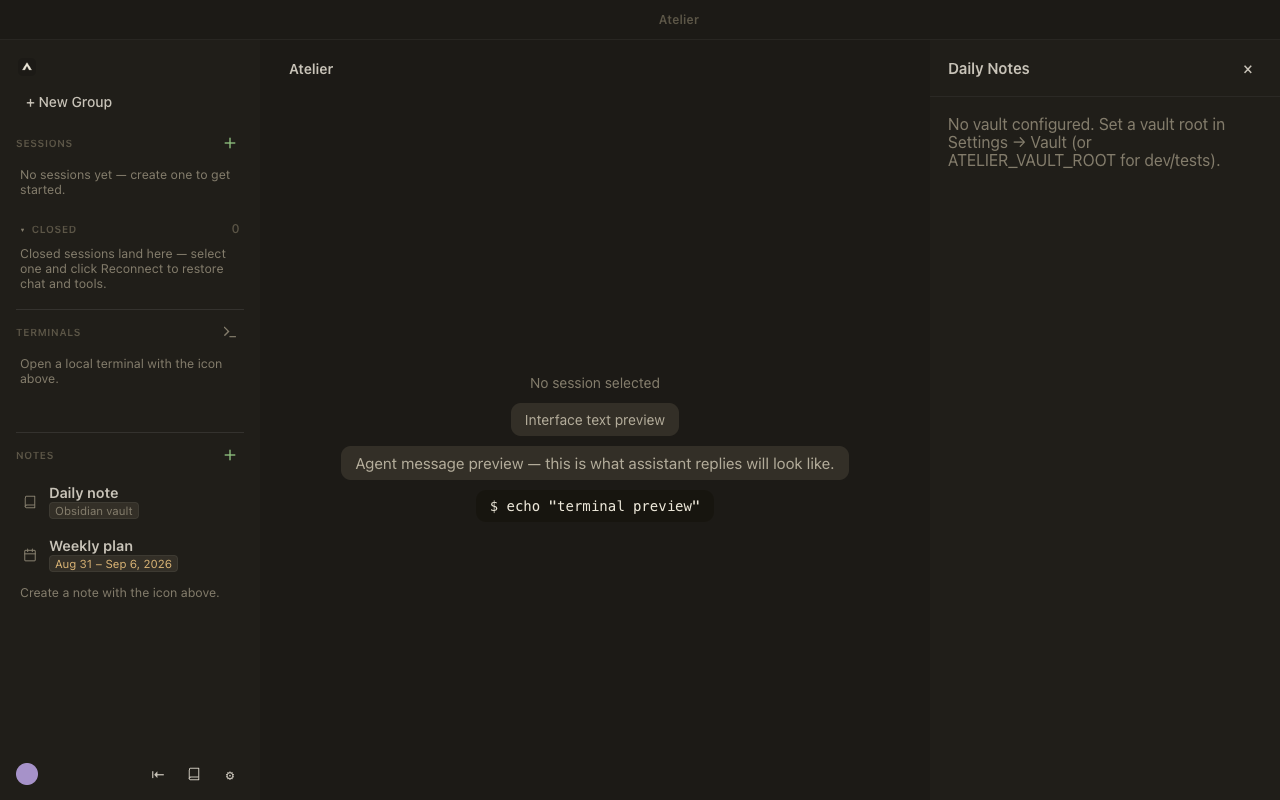
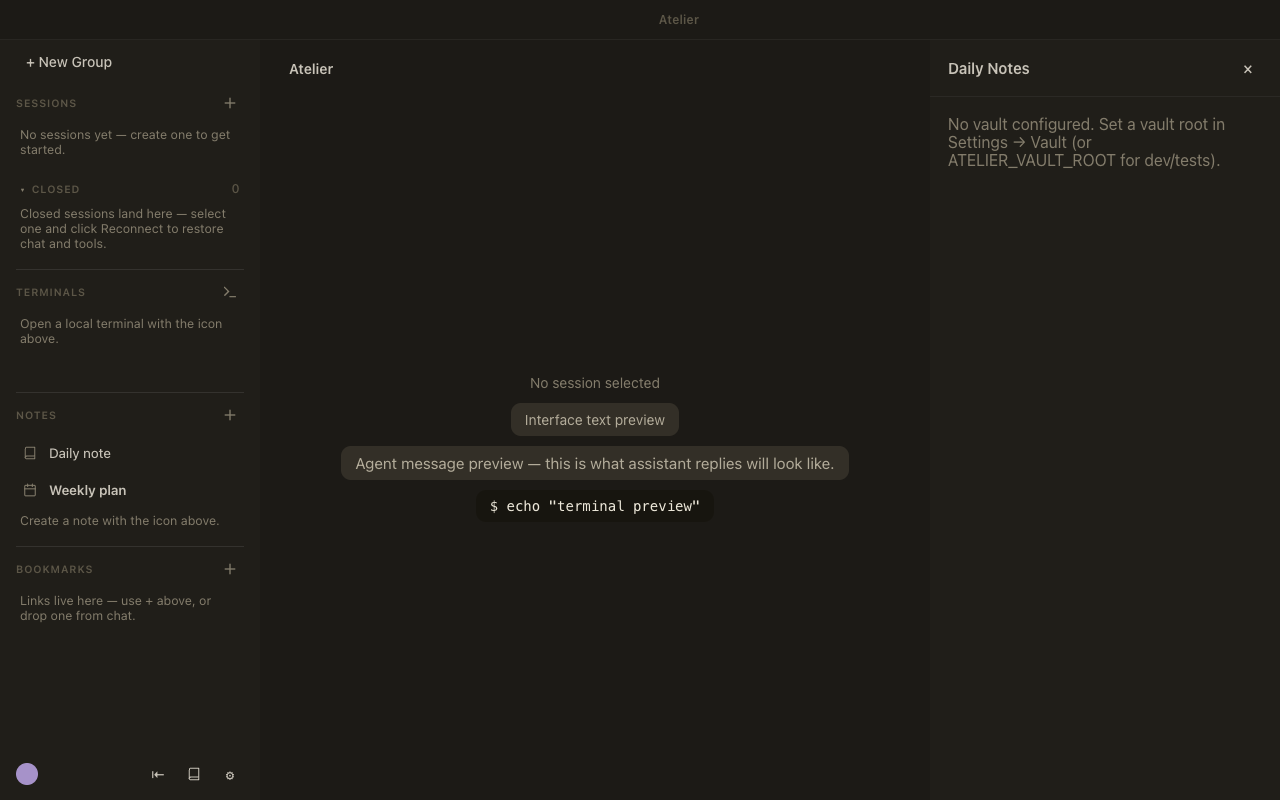
Remove the sidebar app mark and reclaim top space

diff --git a/Features/UI-Design/mocks/index.html b/Features/UI-Design/mocks/index.html
@@ -59,8 +59,7 @@
   .sidebar.collapsed { width: 56px; }
   .sidebar.collapsed .hide-on-collapse { display: none; }
   .sidebar.collapsed .session-row { justify-content: center; padding: 8px 0; }
-  .sidebar-top { padding: 16px 16px 10px; display: flex; align-items: center; gap: 8px; flex-shrink: 0; }
-  .app-mark { width: 22px; height: 22px; border-radius: 6px; background: linear-gradient(135deg, var(--accent), var(--sc-teal)); flex-shrink: 0; }
+  .new-group-row { margin: 8px 16px 10px; }
   .app-name { font-weight: 600; font-size: var(--text-base); flex: 1; }
   .sidebar-search-row { padding: 0 16px 10px; }
   .sidebar-search { display: flex; align-items: center; gap: 6px; background: var(--bg-input); border: 1px solid var(--border-default); border-radius: 100px; padding: 6px 12px; font-size: var(--text-sm); color: var(--text-tertiary); cursor: pointer; }
@@ -1349,8 +1348,8 @@
 
     <!-- ===================== SIDEBAR ===================== -->
     <div class="sidebar" id="sidebar">
-      <div class="sidebar-top">
-        <div class="app-mark"></div>
+      <div class="new-group-row hide-on-collapse">
+        <button class="btn btn-ghost btn-sm">+ New Group</button>
       </div>
       <div class="workspace-toggle-row hide-on-collapse">
         <div class="segmented" id="workspaceToggle">

diff --git a/e2e/app-shell.spec.ts b/e2e/app-shell.spec.ts
@@ -71,8 +71,13 @@ test('main-process log file contains "app ready" and IPC entries', async () => {
   copyFileSync(logPath, join(artifactsDir, '00-main.log'))
 })
 
-  test('shell renders app mark in sidebar', async () => {
-    await expect(page.getByTestId('app-mark')).toBeVisible()
+  test('sidebar starts with New Group instead of a decorative app mark', async () => {
+    await expect(page.getByTestId('app-mark')).toHaveCount(0)
+    const sidebar = await page.getByTestId('sidebar').boundingBox()
+    const newGroup = await page.getByTestId('new-group-button').boundingBox()
+    expect(sidebar).not.toBeNull()
+    expect(newGroup).not.toBeNull()
+    expect(newGroup!.y - sidebar!.y).toBe(8)
   })
 
   test('shell renders shared.css design tokens, not Electron/browser defaults', async () => {

diff --git a/src/renderer/src/styles/global.css b/src/renderer/src/styles/global.css
@@ -94,24 +94,6 @@
   justify-content: center;
   padding: 8px 0;
 }
-.sidebar-top {
-  padding: 16px 16px 10px;
-  display: flex;
-  align-items: center;
-  gap: 8px;
-  flex-shrink: 0;
-}
-.sidebar.collapsed .sidebar-top {
-  justify-content: center;
-  padding: 12px 0 8px;
-}
-.app-mark {
-  width: 22px;
-  height: 22px;
-  border-radius: 6px;
-  background: url('/icon.png') center / cover no-repeat;
-  flex-shrink: 0;
-}
 .app-name {
   font-weight: 600;
   flex: 1;
@@ -2782,7 +2764,7 @@ input[type='range'] {
 
 /* New Group affordance, mirrors .new-session-btn's spacing. */
 .new-group-row {
-  margin: 0 16px 10px;
+  margin: 8px 16px 10px;
 }
 .new-group-row input {
   width: 100%;

diff --git a/e2e/sidebar-refinement.spec.ts b/e2e/sidebar-refinement.spec.ts
@@ -48,6 +48,13 @@ test.describe('sidebar refinement', () => {
     const daily = page.getByTestId('daily-note-row')
     const weekly = page.getByTestId('weekly-plan-row')
 
+    await expect(page.getByTestId('app-mark')).toHaveCount(0)
+    const sidebar = await page.getByTestId('sidebar').boundingBox()
+    const newGroup = await page.getByTestId('new-group-button').boundingBox()
+    expect(sidebar).not.toBeNull()
+    expect(newGroup).not.toBeNull()
+    expect(newGroup!.y - sidebar!.y).toBe(8)
+
     await expect(daily).toContainText('Daily note')
     await expect(daily).not.toContainText('Obsidian vault')
     await expect(daily.locator('.session-meta')).toHaveCount(0)

diff --git a/src/renderer/src/components/Sidebar.tsx b/src/renderer/src/components/Sidebar.tsx
@@ -1201,9 +1201,6 @@ export default function Sidebar({
 
   return (
     <div className={'sidebar' + (collapsed ? ' collapsed' : '')} data-testid="sidebar">
-      <div className="sidebar-top">
-        <div className="app-mark" data-testid="app-mark" aria-hidden />
-      </div>
       <div className="new-group-row hide-on-collapse">
         {newGroupOpen ? (
           <input

diff --git a/Features/sidebar-refinement/spec.md b/Features/sidebar-refinement/spec.md
@@ -13,12 +13,19 @@
 5. The user sees neutral grey `+` actions beside Sessions, Notes, and
    Bookmarks, so those utility controls do not compete with selected or
    working states that use the green accent.
+6. The user enters the sidebar at **+ New Group** without a redundant Atelier
+   app-mark row consuming space above it.
 
 ## Expected UI
 
 The existing mock is `Features/UI-Design/mocks/index.html`, sidebar Notes and
 Terminals markup around `.sidebar-list-pane--terminals` and
 `.sidebar-list-pane--notes`.
+
+The mock still contains `.sidebar-top` / `.app-mark` but does not contain the
+current `.new-group-row`, so it does not fully cover this case. Update that
+sidebar opening to remove the decorative mark and place a `.new-group-row`
+8px below the top edge before changing production code.
 
 - Remove the `.row-tag` metadata under the fixed Daily note row
   ("Obsidian vault").
@@ -37,6 +44,10 @@ Terminals markup around `.sidebar-list-pane--terminals` and
 - Render `.sidebar-action-icon.primary` with existing `--text-tertiary`
   grey, matching the default sidebar action color. Preserve the existing
   `--text-secondary` hover color and transparent background.
+- Remove `.sidebar-top` and `.app-mark` from the sidebar. Give
+  `.new-group-row` an 8px top margin (with its existing 16px side and 10px
+  bottom margins), reclaiming the former 48px decorative row while preserving
+  breathing room below the title-bar divider.
 
 The mock is updated to these exact treatments before production code.
 
@@ -63,6 +74,8 @@ The mock is updated to these exact treatments before production code.
 - The Weekly plan create button still appears when the file is missing.
 - Sessions, Notes, and Bookmarks `+` icons resolve to `--text-tertiary`, not
   `--accent`, and retain their existing hover behavior.
+- No `.app-mark` is rendered, and **+ New Group** starts 8px below the
+  sidebar's top edge.
 - `npm run build` passes.
 - `npm run test:e2e:affected -- --base main` passes, subject only to documented
   pre-existing failures.
